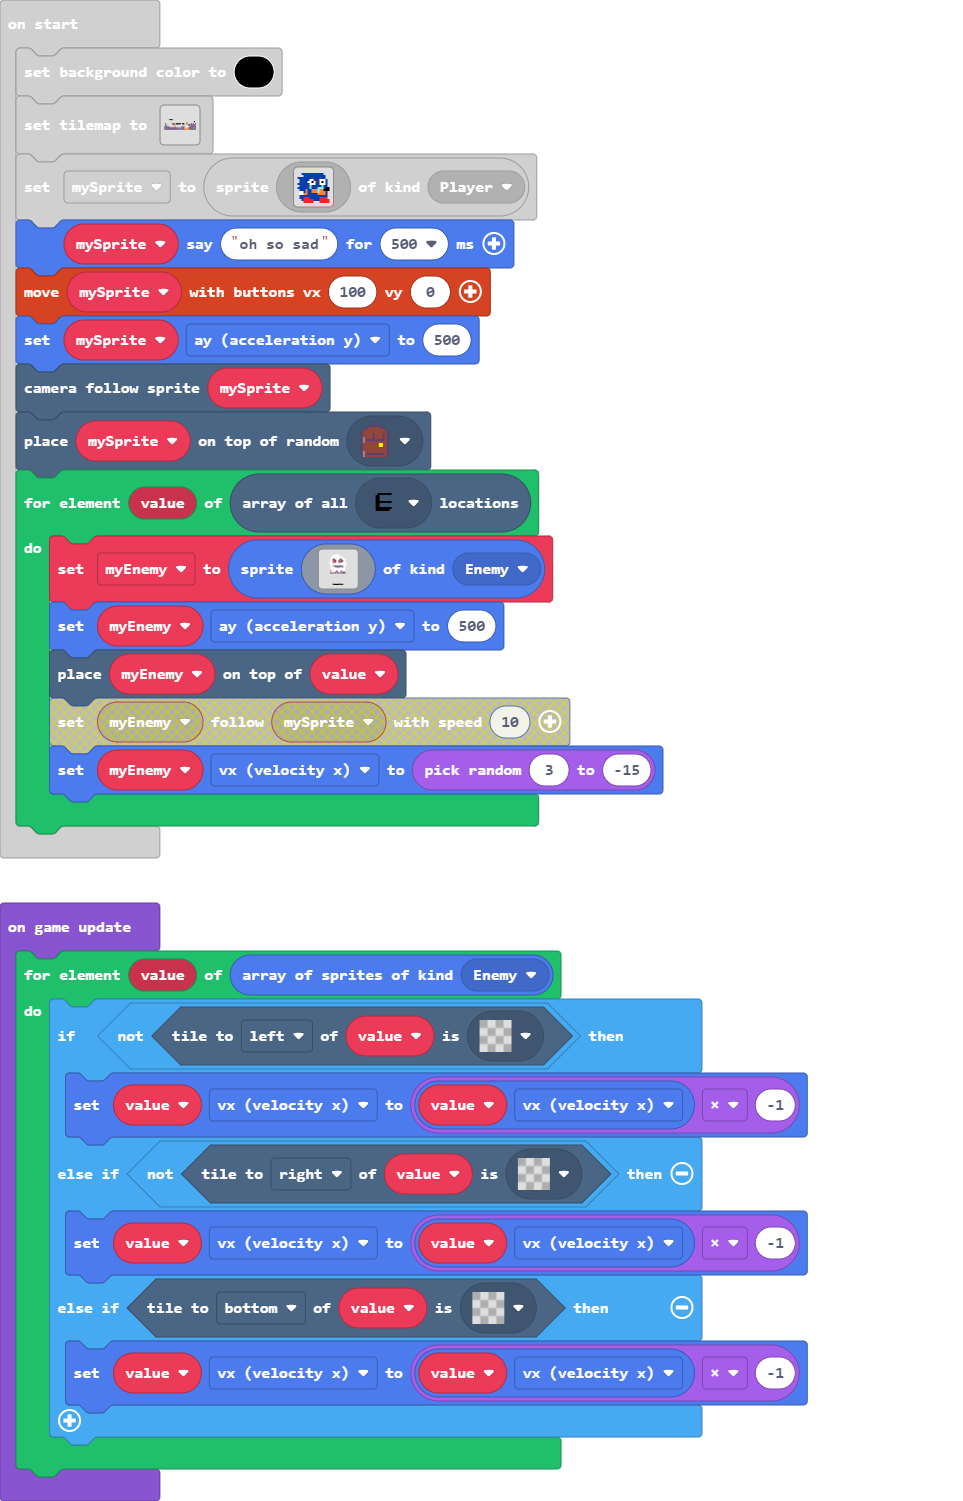
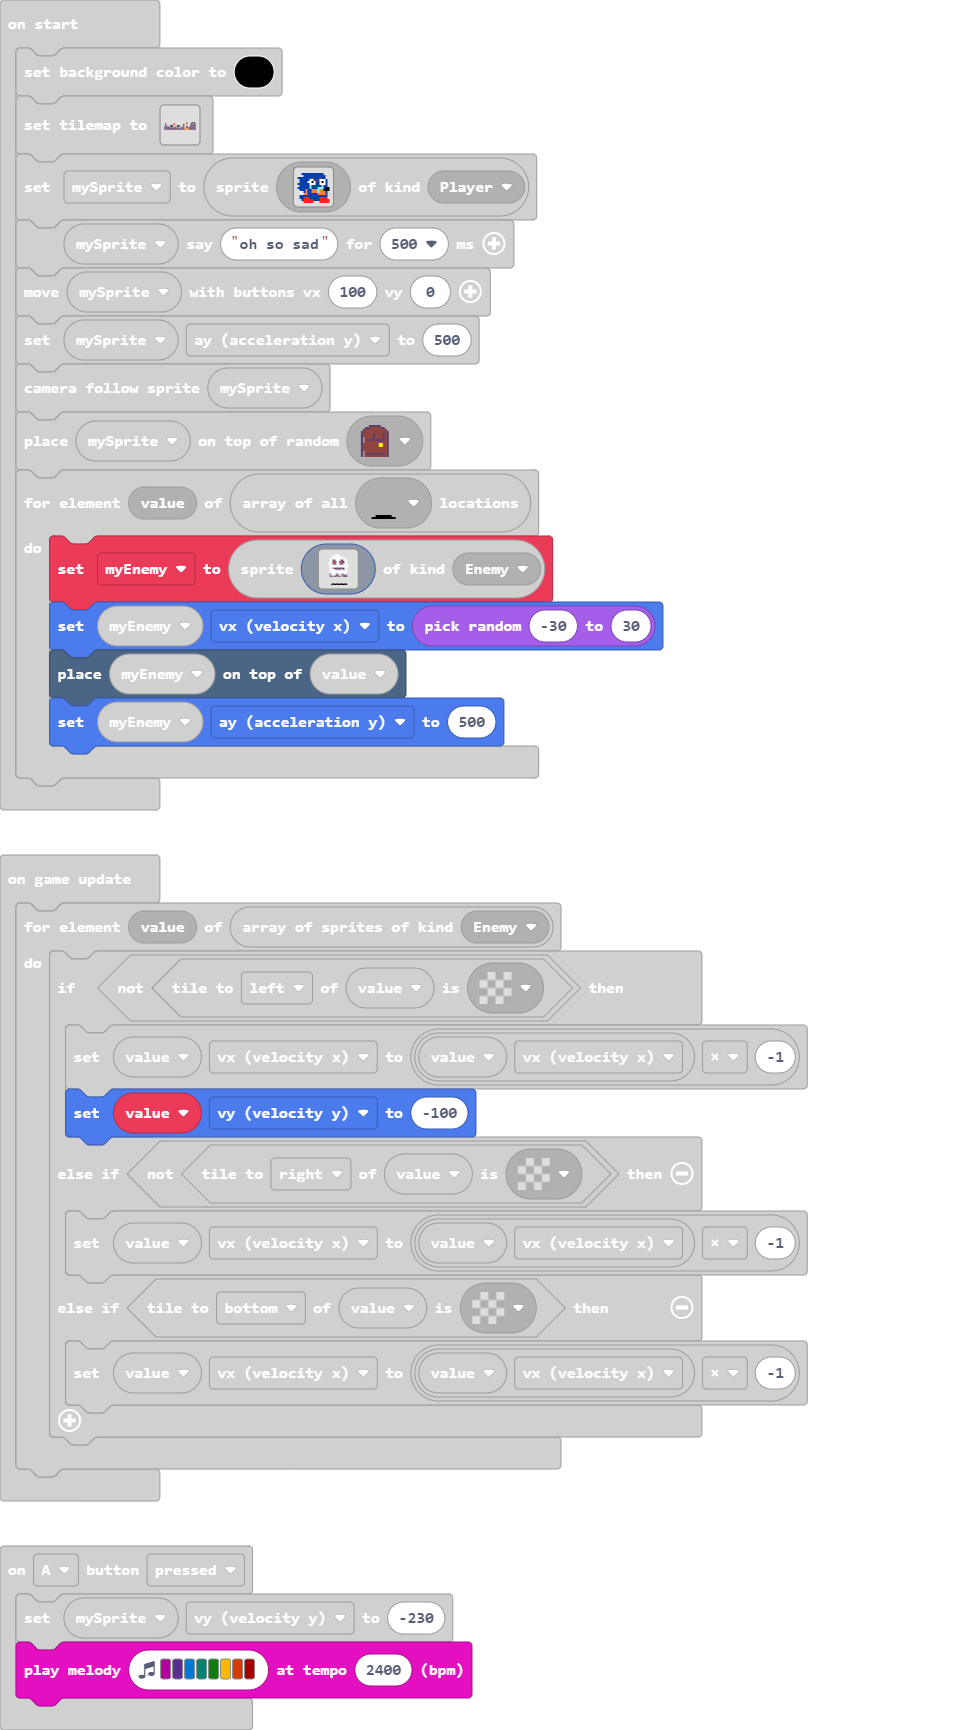
more movement fix

diff --git a/tilemap.g.ts b/tilemap.g.ts
@@ -15,9 +15,9 @@ namespace myTiles {
     //% fixedInstance jres blockIdentity=images._tile
     export const tile3 = image.ofBuffer(hex``);
     //% fixedInstance jres blockIdentity=images._tile
-    export const tile5 = image.ofBuffer(hex``);
-    //% fixedInstance jres blockIdentity=images._tile
     export const tile4 = image.ofBuffer(hex``);
+    //% fixedInstance jres blockIdentity=images._tile
+    export const tile5 = image.ofBuffer(hex``);
 
     helpers._registerFactory("tilemap", function(name: string) {
         switch(helpers.stringTrim(name)) {
@@ -113,7 +113,7 @@ namespace myTiles {
 2 2 2 . . . . . . 2 2 2 . . . . 2 2 2 2 2 2 2 . . 2 2 2 2 2 
 `, [myTiles.transparency16,myTiles.tile1,myTiles.tile3,myTiles.tile4,myTiles.tile5,myTiles.tile2,sprites.builtin.oceanSand8,sprites.builtin.oceanSand13,sprites.builtin.oceanSand14,sprites.builtin.oceanSand15,myTiles.tile6,sprites.builtin.oceanSand3,sprites.builtin.oceanSand1,sprites.builtin.oceanSand2,sprites.dungeon.hazardLava0,sprites.dungeon.hazardLava1,sprites.builtin.forestTiles1,sprites.builtin.forestTiles2,sprites.builtin.forestTiles3,sprites.builtin.forestTiles8,sprites.builtin.forestTiles5,sprites.builtin.forestTiles6,sprites.builtin.forestTiles7,sprites.builtin.forestTiles10,sprites.builtin.forestTiles11], TileScale.Sixteen);
             case "platformer1":
[2 lines of base64/hex data omitted]
 . . . . . . . . . . . . . . . . . . . . . . . . . . . . . . 
 . . . . . . . . . . . . . . . . . . . . . . . . . . . . . . 
 . . . . . . . . . . . . . . . . . . . . . . . . . . . . . . 
@@ -141,8 +141,8 @@ namespace myTiles {
             case "myTiles.tile0":
             case "tile50":return tile50;
             case "tile3":return tile3;
-            case "tile5":return tile5;
             case "tile4":return tile4;
+            case "tile5":return tile5;
         }
         return null;
     })

diff --git a/main.ts b/main.ts
@@ -3,6 +3,7 @@ scene.onOverlapTile(SpriteKind.Player, assets.tile`tile4`, function (sprite, loc
 })
 controller.A.onEvent(ControllerButtonEvent.Pressed, function () {
     mySprite.vy = -230
+    music.playMelody("C D E F G A B C5 ", 2400)
 })
 scene.onOverlapTile(SpriteKind.Player, sprites.dungeon.hazardLava0, function (sprite, location) {
     game.over(false, effects.slash)
@@ -78,20 +79,17 @@ for (let value of tiles.getTilesByType(assets.tile`tile5`)) {
         ................
         ................
         ................
-        ................
-        ................
-        ................
-        ................
-        ....fffffffff...
+        ...ffffffffffff.
         `, SpriteKind.Enemy)
-    myEnemy.ay = 500
+    myEnemy.vx = randint(-30, 30)
     tiles.placeOnTile(myEnemy, value)
-    myEnemy.vx = randint(3, -15)
+    myEnemy.ay = 500
 }
 game.onUpdate(function () {
     for (let value of sprites.allOfKind(SpriteKind.Enemy)) {
         if (!(value.tileKindAt(TileDirection.Left, assets.tile`transparency16`))) {
             value.vx = value.vx * -1
+            value.vy = -100
         } else if (!(value.tileKindAt(TileDirection.Right, assets.tile`transparency16`))) {
             value.vx = value.vx * -1
         } else if (value.tileKindAt(TileDirection.Bottom, assets.tile`transparency16`)) {
